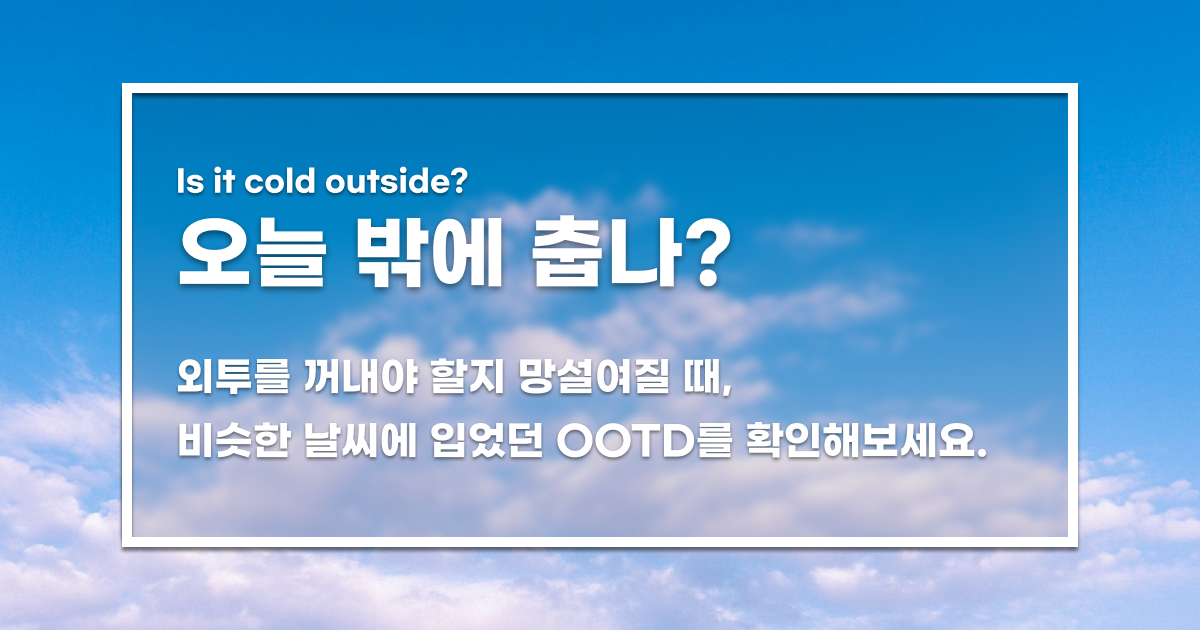
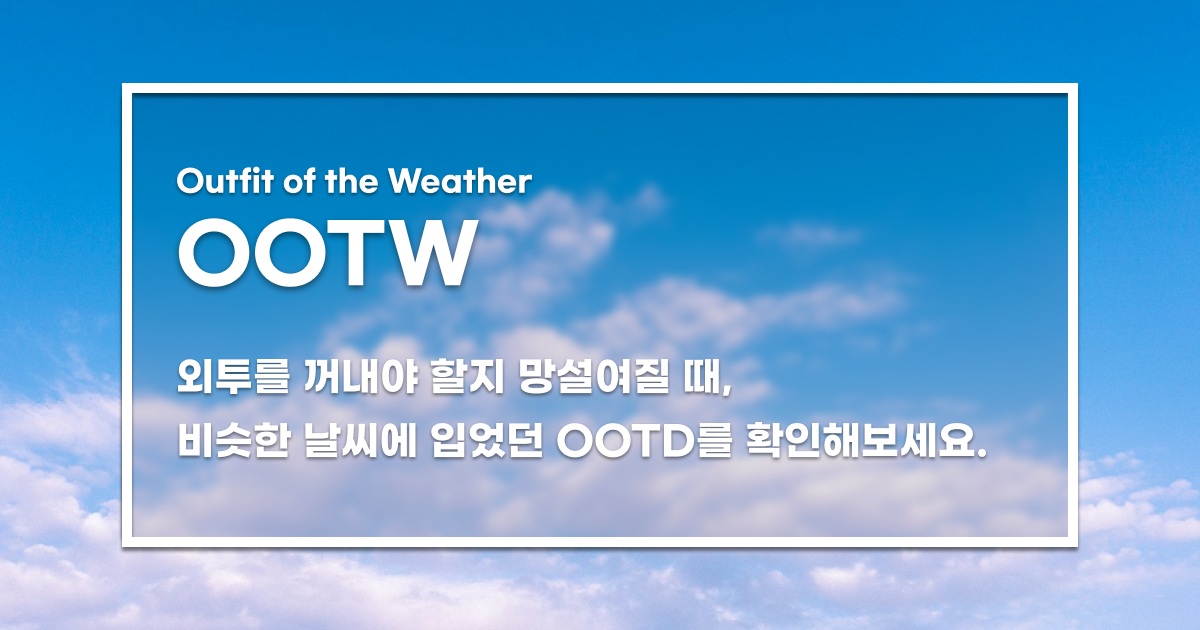
og update

Changed region(s): [[0.1233, 0.2413, 0.6167, 0.4825]]

diff --git a/view/new.html b/view/new.html
@@ -5,9 +5,9 @@
   <meta name="viewport" content="width=device-width, initial-scale=1.0" />
   <meta property="og:type" content="website" />
   <meta property="og:title" content="OOTW - Outfit of the Weather" />
-  <meta property="og:description" content="외투를 꺼내야 할지 망설여질 때, 비슷한 날씨에 입었던 OOTD를 확인해보세요." />
-  <meta property="og:image" content="https://is-it-cold-app.netlify.app/img/og.png" />
-  <meta property="og:url" content="https://is-it-cold-app.netlify.app" />
+  <meta property="og:description" content="바쁜 아침 옷차림이 고민될 때, 비슷한 날씨에 입었던 OOTD를 확인해보세요." />
+  <meta property="og:image" content="https://ootw.xivnick.me/img/og.png" />
+  <meta property="og:url" content="https://ootw.xivnick.me" />
 
   <title>OOTW - Outfit of the Weather</title>
   <!-- Pretendard 폰트 로드 -->
